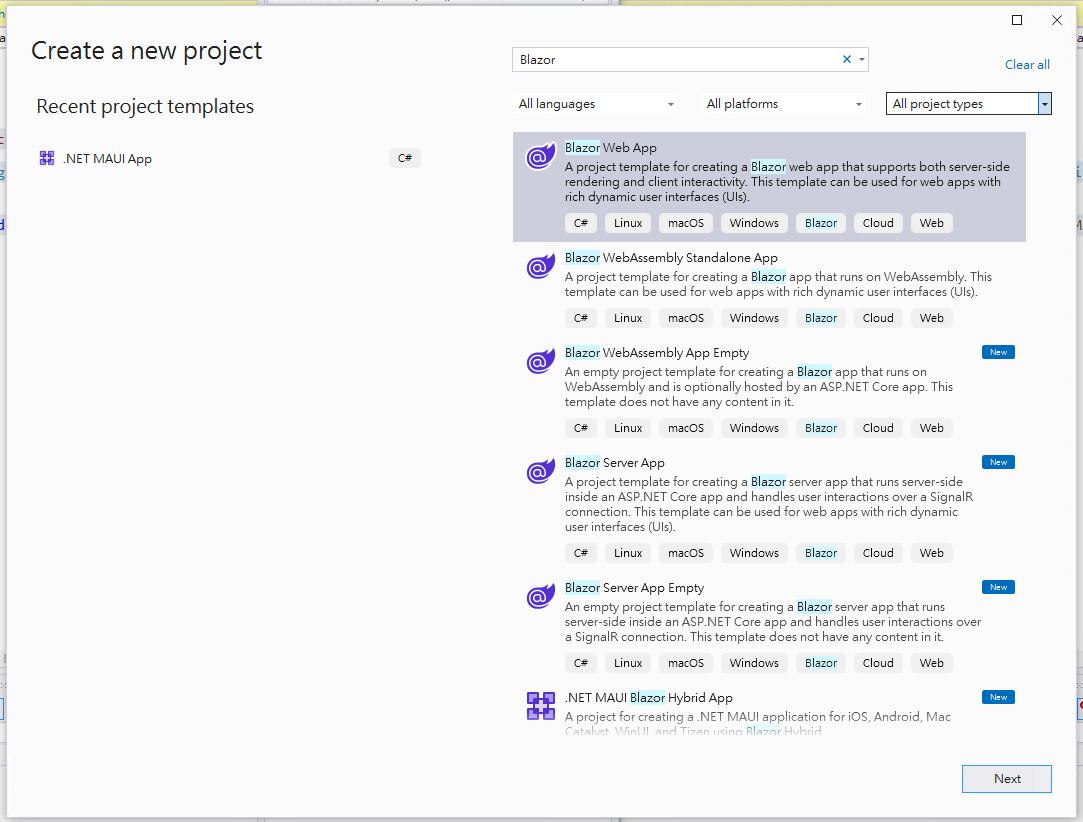
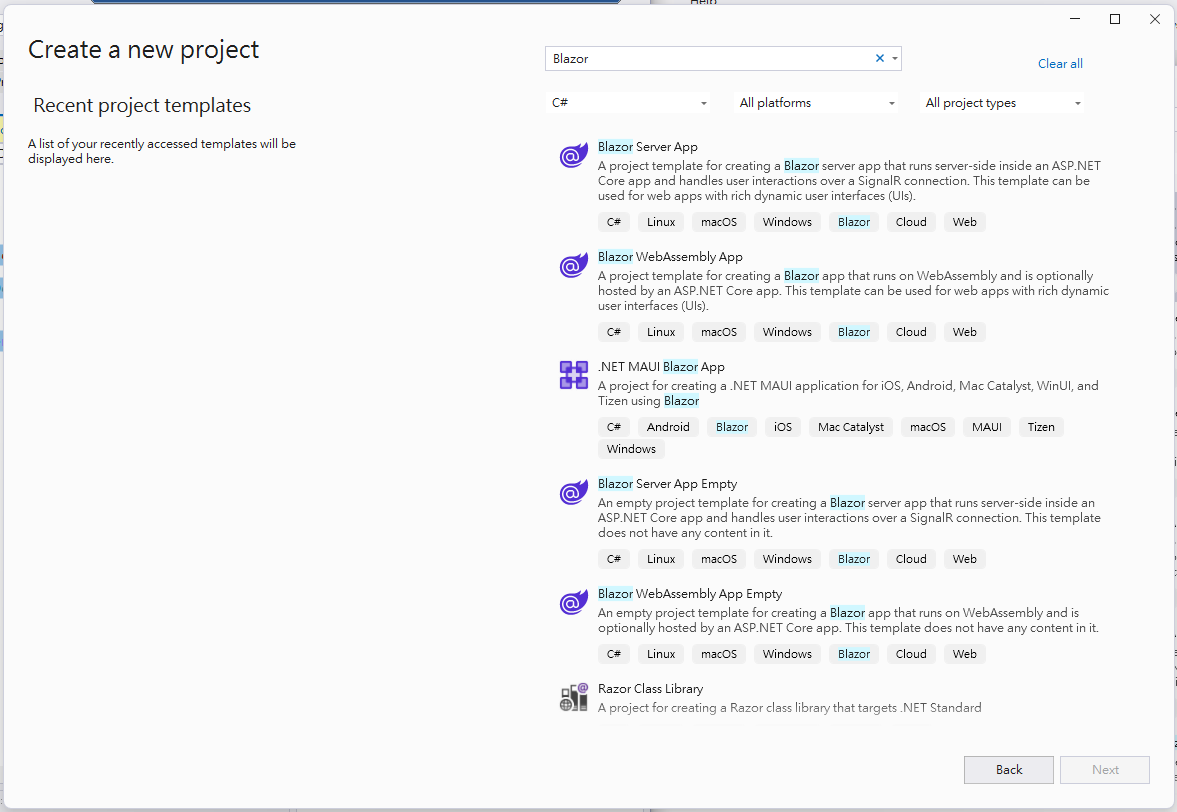
比較 .NET 8 & 7 Blazor 專案範本差異

diff --git a/CSharp/NET8-Blazor-Project-Template-Server-Wasm-WebAssembly.md b/CSharp/NET8-Blazor-Project-Template-Server-Wasm-WebAssembly.md
@@ -4,11 +4,28 @@
 
 ### .NET 8
 
-![](../Images/X2023-9886.png)
+![](../Images/X2023-9885.png)
+
+* [Blazor Web App]
+  A project template for creating a Blazor web app that supports both server-side rendering and client interactivity. This template can be used for web apps with rich dynamic user interfaces (Uls).
+* [Blazor WebAssembly Standalone App]
+  A project template for creating a Blazor app that runs on WebAssembly. This template can be used for web apps with rich dynamic user interfaces (Uls).
+* [Blazor WebAssembly App Empty]
+  An empty project template for creating a Blazor app that runs on WebAssembly and is optionally hosted by an ASP.NET Core app. This template does not have any content in it.
+* [Blazor Server App]
+  A project template for creating a Blazor server app that runs server-side inside an ASP.NET Core app and handles user interactions over a SignalR connection.This template can be used for web apps with rich dynamic user interfaces (Uls).
+* [Blazor Server App Empty]
+  An empty project template for creating a Blazor server app that runs server-side inside an ASP.NET Core app and handles user interactions over a SignalR connection. This template does not have any content in it.
+* [.NET MAUI Blazor Hybrid App]
+  A project for creating a .NET MAUI application for iOS, Android, Mac Catalyst, WinUl, and Tizen using Blazor Hybrid
+
+底下為中文介面的專案範本，可以看出明顯的比起英文版的可用專案範本項目少了許多。
+
+![](../Images/X2023-9882.png)
 
 ### .NET 7
 
-![](../Images/X2023-9885.png)
+![](../Images/X2023-9886.png)
 
 ## 
 

diff --git a/CSharp/NET8-MAUI-Project-Template-Comparison.md b/CSharp/NET8-MAUI-Project-Template-Comparison.md
@@ -1,5 +1,15 @@
 # 比較 .NET 8 & 7 MAUI 專案範本差異
 
+## 專案範本
+
+### .NET 8
+
+![](../Images/X2023-9884.png)
+
+### .NET 7
+
+![](../Images/X2023-9883.png)
+
 ## 專案結構
 
 ### .NET 8
